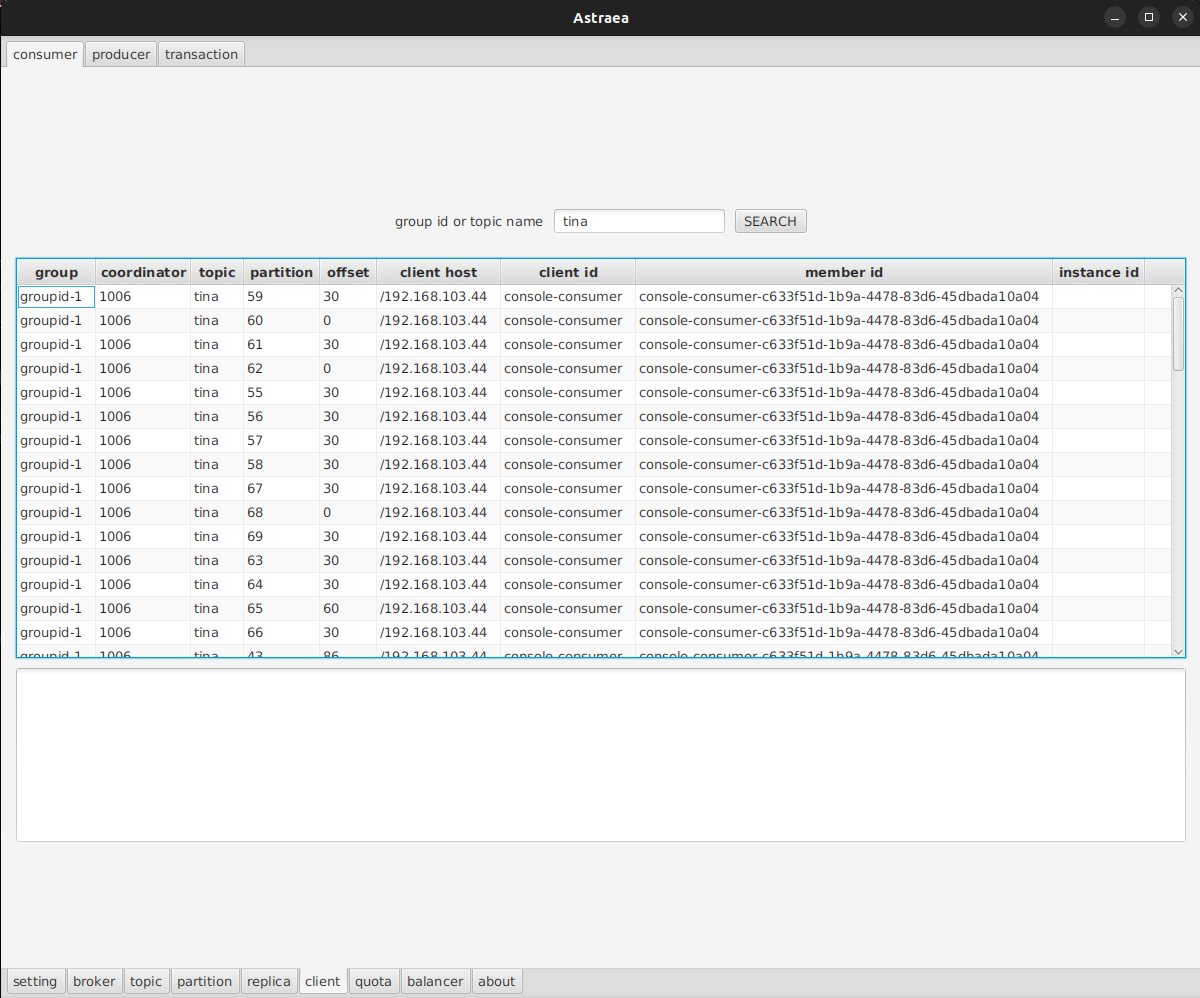
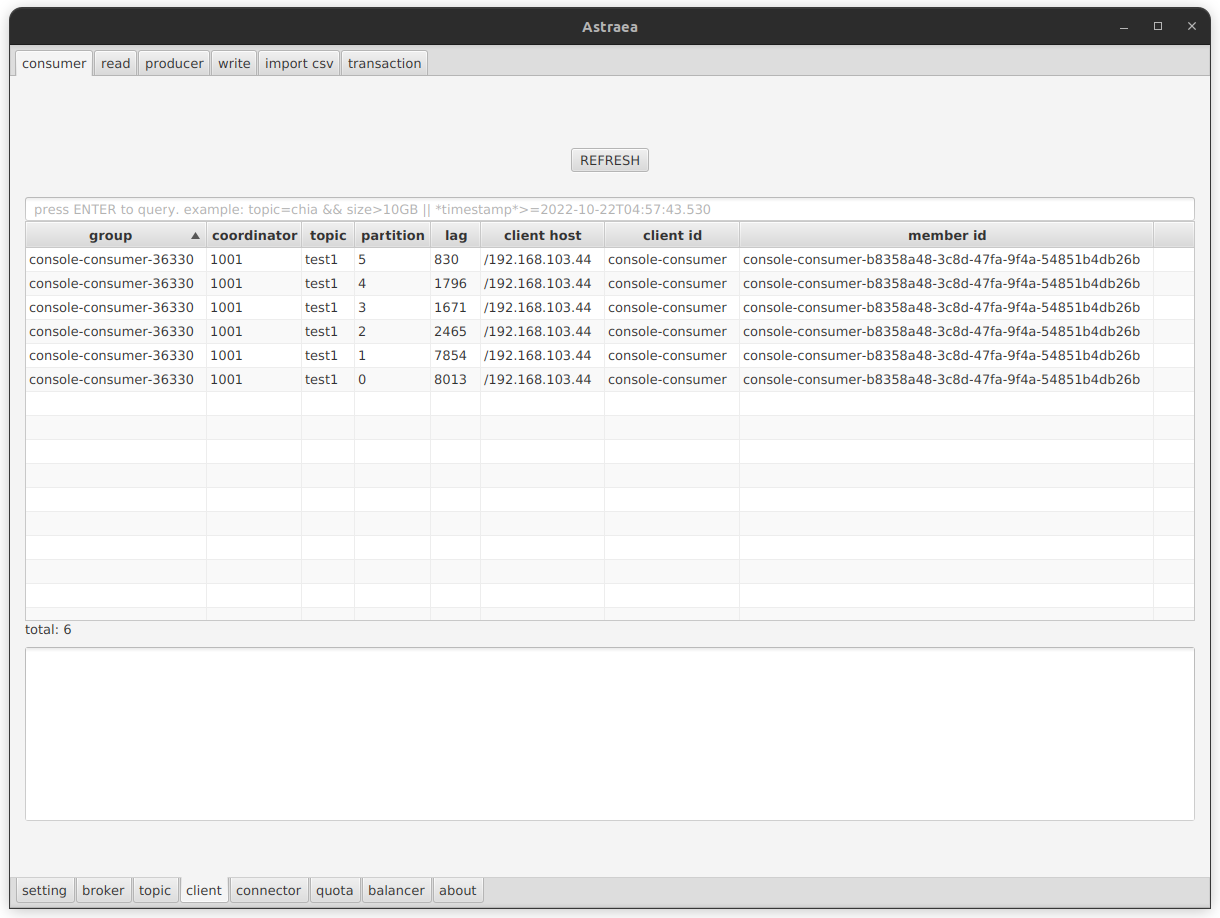
update gui topic and client.

Changed region(s): [[0.0, 0.0, 1.0, 1.0], [0.2467, 0.5795, 0.2775, 0.61]]

diff --git a/docs/gui/topic/README.md b/docs/gui/topic/README.md
@@ -2,26 +2,64 @@
 
 `topic` 頁面提供您調閱及設定 `topic`
 
-#### 調閱
+#### 各頁面連結
 - [topic 基本資訊](#調閱-topic-基本資訊) `basic`
+- [partition 資訊](#調閱-partition-資訊) `partition`
+- [replica 資訊](#調閱-replica-資訊) `replica`
 - [topic 配置](#調閱-topic-配置) `config`
 - [topic 指標](#調閱-topic-指標) `metrics`
-
-#### 設定
+- [partition 下線情形](#調閱下線-partition) `health`
 - [建立 topic](#建立-topic) `create`
-- [修改 topic](#修改-topic) `alter`
-- [刪除 topic](#刪除-topic) `delete`
 
 ## 調閱 topic 基本資訊
-`basic` 提供您查詢 topic 的資訊。
-![topic_basic](topic_basic_1.png)
+`basic` 提供您
+1. 查詢 topic 的資訊
+2. 刪除指定 `topic`
+
+![topic_basic](topic_basic.png)
 * 可以透過搜尋欄，增加查詢條件（支援Regex) Ex: 下圖查詢`number of partition = 10` 的`topic`
 ![topic_basic](topic_basic_2.png)
+* 篩選後的`topic`可以透過勾選`enable`後，點擊下方`DELETE`按鈕進行刪除
+![topic_basic_delete](topic_basic_delete.png)
+
+## 調閱 partition 資訊
+`partition` 提供您
+1. 查詢 `partition` 的資訊
+2. 增加指定 `topic`的 `partition` 
+3. 截斷指定 `partiton`的 `offset`
+
+![topic_partition](topic_partition.png)
+* 透過勾選下方 `enable` 進行設定，點擊 `ALTER` 套用。
+
+範例：篩選`topic=test1 && partition=0`套用以下設定
+![topic_partition_setting](topic_partition_setting.png)
+套用後如下圖所示
+![topic_partition_alter](topic_partition_alter.png)
+
+## 調閱 replica 資訊
+`replica` 提供您
+1. 查詢 `replica` 的資訊
+2. 搬移 `replica` 到指定 `broker` 或 `path`
+
+![topic_replica](topic_replica.png)
+* 透過勾選下方 `enable` 進行設定，點擊 `ALTER` 套用。
+
+範例：篩選`topic=test1`套用以下設定
+![topic_replica_setting](topic_replica_setting.png)
+套用後如下圖所示
+![topic_replica_alter](topic_replica_alter.png)
 
 ## 調閱 topic 配置
 `config` 提供您查詢 topic 的參數設定，您可以透過搜尋欄位過濾參數的名稱，如下圖查詢有關 segment 的參數
-* 各項屬性的意義 , 請參考 [Kafka官方網站](https://docs.confluent.io/platform/current/installation/configuration/topic-configs.html#confluent-key-schema-validation).
+各項屬性的意義 , 請參考 [Kafka官方網站](https://docs.confluent.io/platform/current/installation/configuration/topic-configs.html#confluent-key-schema-validation).
+
 ![topic_config](topic_config.png)
+* 透過勾選下方 `enable` 進行設定，點擊 `ALTER` 套用。
+
+範例：篩選`topic=test1`套用以下設定
+![topic_config_setting](topic_config_setting.png)
+套用後如下圖所示
+![topic_config_alter](topic_config_alter.png)
 
 ## 調閱 topic 指標
 `metrics` 提供您查詢 JVM metrics 的能力。
@@ -31,6 +69,11 @@
 
 ![topic_metrics](topic_metrics.png)
 
+## 調閱下線 partition
+`health` 提供您查詢下線的 `partition`
+
+![topic_health](topic_health.png)
+
 ## 建立 topic
 `create` 提供您建立 topic 的能力，如下圖建立名稱為 first_topic 的 `topic`
  * 建立出的 Topic , 我們目前提供三個屬性的設定
@@ -38,18 +81,3 @@
  * 各項屬性代表的意義 , 請參考 [Kafka官方網站](https://docs.confluent.io/platform/current/installation/configuration/topic-configs.html#confluent-key-schema-validation).
 
 ![topic_create](topic_create.png)
-
-## 修改 topic
-`alter` 提供您動態更新 topic 的能力。
-* 透過搜尋欄位過濾出指定的 `topic` 後，將 `compression.type` 修改為 `lz4` 演算 
-* 下拉式選單可以修改各項屬性
-* 各項屬性代表的意義 , 請參考 [Kafka官方網站](https://docs.confluent.io/platform/current/installation/configuration/topic-configs.html#confluent-key-schema-validation).
-![topic_alter](topic_alter.png)
-
-## 刪除 topic
-`Basic` 頁面提供您刪除 topic 的功能。
-* 透過搜尋欄位過濾出要刪除的 `topic` 
-* 點選 `enable`的按鈕
-* 刪除該 `topic`
-
-![topic_delete](topic_delete.png)

diff --git a/docs/gui/client/README.md b/docs/gui/client/README.md
@@ -1,27 +1,69 @@
 ### client
 
-`client` 頁面提供您查詢 `consumer` `producer` `transaction` 的資訊
+`client` 頁面提供您查詢 `consumer` `read` `producer` `write` `import csv` `transaction` 的資訊
 
 - [consumer](#consumer)
+- [read](#read)
 - [producer](#producer)
+- [write](#write)
+- [import csv](#import-csv)
 - [transaction](#transaction)
 
 ## consumer
 
-`consumer` 提供您查詢 consumer groups 的資訊，預設搜尋所有 consumer，您可以透過搜尋欄位過濾 `group id` 或是 `topic 名稱`，如下圖是顯示有訂閱 tina 的 consumers
+`consumer` 提供您查詢 consumer groups 的資訊
 
 ![client_consumer](client_consumer.png)
 
+## read
+
+`read` 提供您讀取 `records`
+- 編碼選擇：`base64` `string`
+- `records`：讀取數量
+- `timeout`：逾時秒數
+
+![client_read](client_read.png)
+
 ## producer
 
-`producer` 提供您查詢 producer 的資訊，預設搜尋所有 producer，您可以透過搜尋欄位過濾 `topic 名稱`，如下圖示顯示有寫資料到 tina 的 producers
+`producer` 提供您查詢 producer 的資訊
 
 **注意：只有idempotent producer 的資訊可供查詢**
 
 ![client_producer](client_producer.png)
 
+## write
+
+`write` 提供您發送資料的能力
+- `topic`：指定發送之目標 `topic`
+- `partition`：指定發送之目標 `partition`
+- `key`：發送之 `key`
+- `value`：發送之 `value`
+
+![client_write](client_write.png)
+
+## import csv
+
+`import csv` 提供您讀取 csv 資料並匯入 `topic` 中
+
+讀取檔案
+- `lines`：指定讀取行數上限
+- `open` ：選取欲讀取之檔案
+
+![client_import_csv](client_import_csv.png)
+
+完成讀取後
+- 透過勾選下方 `enable` 進行設定，點擊 `PUSH` 寫入資料。
+- `topic`：寫入之目標 `topic`
+- `format`：格式選擇 `csv` `json`
+
+範例：讀取檔案後套用以下設定
+![client_import_csv_setting](client_import_csv_setting.png)
+套用後如下圖所示，可以讀取到剛寫入的資料
+![client_import_csv_push](client_import_csv_push.png)
+
 ## transaction
 
-`transaction` 提供您查詢 transaction 的資訊，預設搜尋所有 transaction，您可以透過搜尋欄位過濾 `topic 名稱`或是 `transaction id` ，如下圖是顯示有涉及 tina 的交易狀態
+`transaction` 提供您查詢 transaction 的資訊
 
 ![client_transaction](client_transaction.png)
